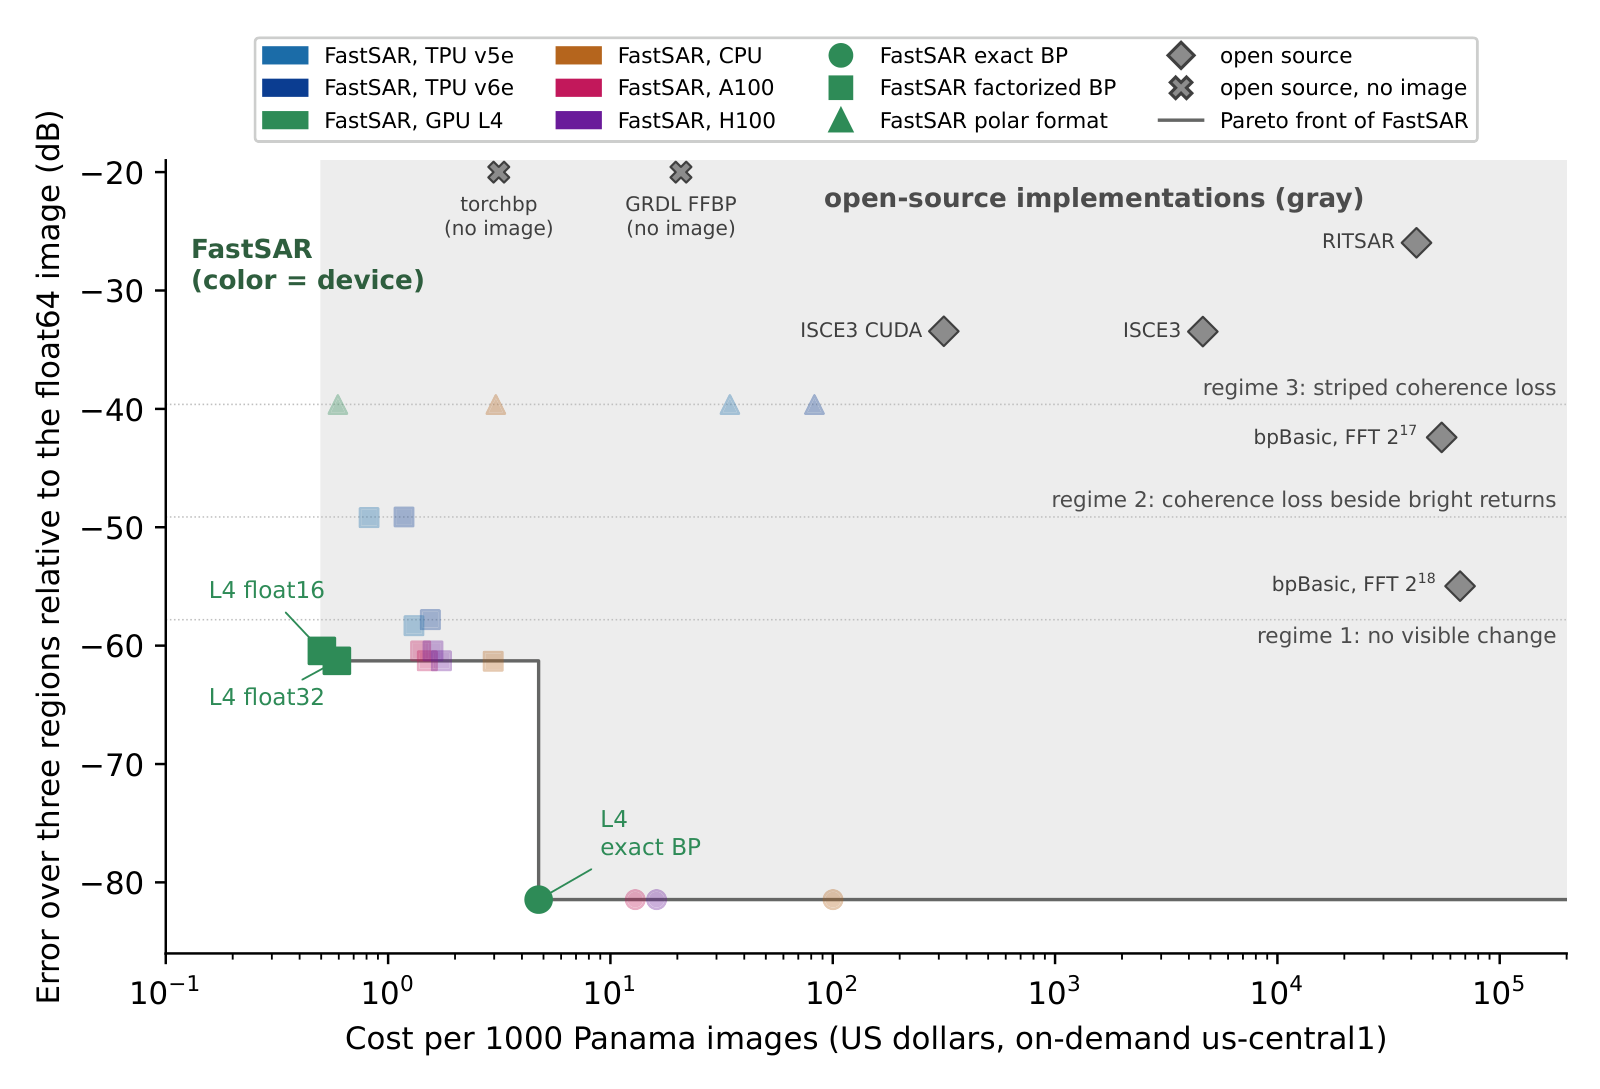
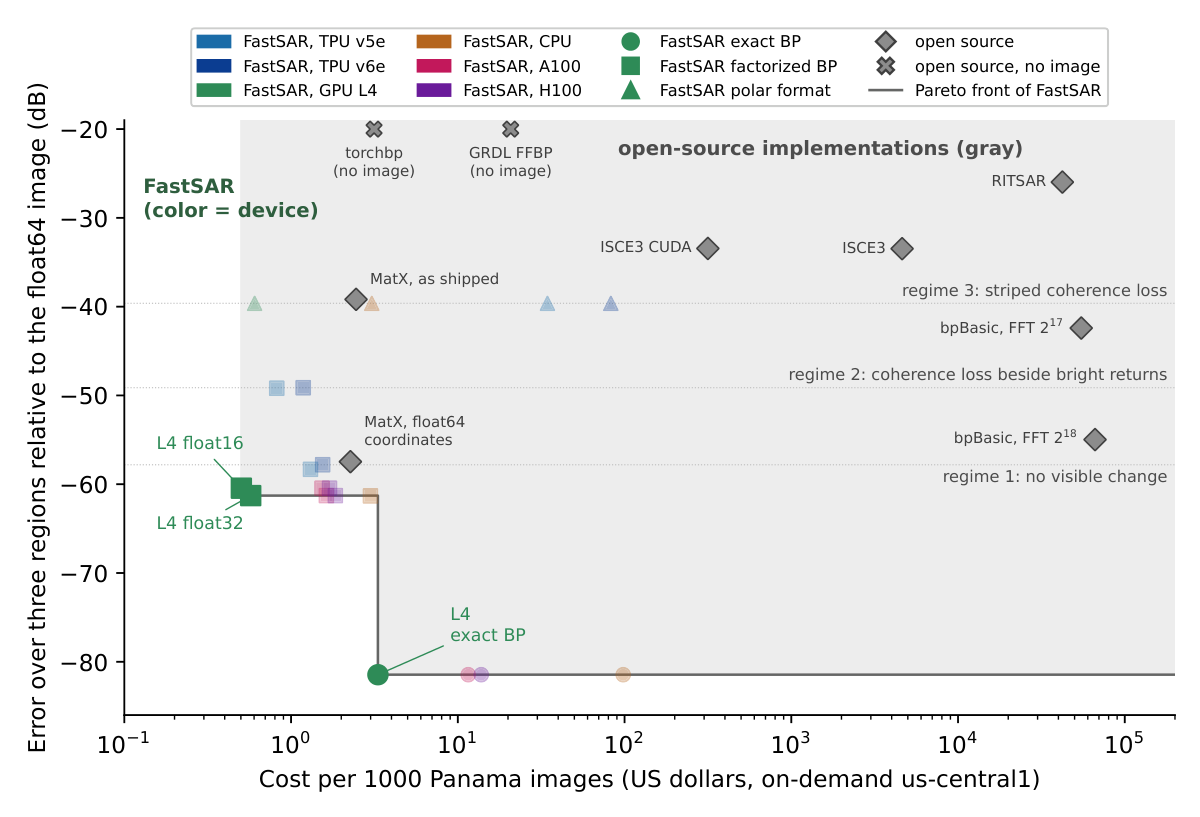
0.1.6.post1: README and docs on the 0.1.6 release records

diff --git a/fastsar/__init__.py b/fastsar/__init__.py
@@ -1,7 +1,7 @@
 """SAR image formation on x86 and ARM CPUs, Nvidia GPUs and Cloud TPUs: factorized backprojection with a kernel for each
 (C++/OpenMP, CUDA, Pallas) for spotlight, stripmap, sliding spotlight and burst collections, exact backprojection,
 polar format, and the chain from a CPHD file to geolocated products. Start with form_cphd or form_image."""
-__version__ = '0.1.6'
+__version__ = '0.1.6.post1'
 
 import os as _os
 

diff --git a/docs/performance.md b/docs/performance.md
@@ -17,11 +17,11 @@ The Umbra Panama image ([real-data.md](real-data.md#umbra-spotlight)) at float32
 |---|---|---|---|
 | TPU v6e (three-pass) | 2.70 | 2.9 | 1.55 |
 | TPU v5e (three-pass) | 1.20 | 5.0 | 1.31 |
-| L4 (float32) | 0.707 | 3.0 | 0.59 |
+| L4 (float32) | 0.707 | 2.8 | 0.57 |
 | L4 (float16 throughout, float32 accumulation) | 0.707 | 2.5 | 0.50 |
-| A100 (float32) | 5.02 | 1.1 | 1.50 |
-| H100 (float32) | 10.97 | 0.6 | 1.74 |
-| c4d-highmem-16 | 0.964 | 11.1 | 2.97 |
+| A100 (float32) | 5.02 | 1.2 | 1.63 |
+| H100 (float32) | 10.97 | 0.6 | 1.84 |
+| c4d-highmem-16 | 0.964 | 11.2 | 2.99 |
 
 Cost is the hourly price divided by the throughput of back-to-back images (on the TPUs the next history is staged
 while one forms). The H100 forms the image fastest; the L4, whose hourly price is about a quarter of the v6e's and
@@ -30,10 +30,12 @@ on the Melbourne and Iowa collections as well.
 
 ![Cost per 1000 Panama images against error for every FastSAR configuration and the open-source implementations](images/teaser.png)
 
-Single-pass on the TPUs takes 2.5 s (v6e) and 3.5 s (v5e) at -46.2 dB, $1.18 and $0.82 per 1000 images. Float16
-on the L4 and single-pass on the TPUs lower each device's cost by 14 to 37%. Polar format takes 3.0 s on the L4
-($0.59 per 1000) and 11.3 s on the c4d-highmem-16, at -32.1 dB. On the TPUs its resampling steps are gathers on the vector unit and take 103 s (v5e) and 110 s (v6e) per image. The L4 draws 0.06 kWh per 1000 float32 images (mean
-`nvidia-smi` power, host excluded). These are the release records of the study (FastSAR 0.1.4, public API only).
+Single-pass on the TPUs takes 2.5 s (v6e) and 3.6 s (v5e) at -46.2 dB, $1.18 and $0.82 per 1000 images. Float16
+on the L4 and single-pass on the TPUs lower each device's cost by 12 to 37%. Polar format takes 3.0 s on the L4
+($0.60 per 1000) and 11.2 s on the c4d-highmem-16, at -32.1 dB. On the TPUs its resampling steps are gathers on the vector unit and take 103 s (v5e) and 110 s (v6e) per image. The L4 draws 0.05 kWh per 1000 float32 images (mean
+`nvidia-smi` power, host excluded). These are the release records of the study (FastSAR 0.1.6, public API only;
+the L4 record is the second of two fresh instances, which agreed within 2% on every configuration but the Panama
+float32 single call, 3.06 against 2.85 s).
 
 ## Large collections
 
@@ -80,8 +82,8 @@ instances at 0.1.3 (single warm image, host memory to host memory):
 | H100 80GB | 0.575 s | 0.524 s | 1.04 s |
 | L4 | 2.94 s | 2.52 s | 3.8 s |
 
-Errors are unchanged (-59.9 and -58.9 dB). In the 0.1.4 release records the 84-patch 2021 Capella stripmap takes
-5.7 s on the H100 and 9.6 s on an L4 with a 32-vCPU host (g2-standard-32); with 4 vCPUs the mosaic is bound by the
+Errors are unchanged (-59.9 and -58.9 dB). In the 0.1.6 release records the 84-patch 2021 Capella stripmap takes
+5.5 s on the H100 and 9.8 s on an L4 with a 32-vCPU host (g2-standard-32); with 4 vCPUs the mosaic is bound by the
 host (22.2 s in development).
 
 ## Transfers on the cuda backend
@@ -107,7 +109,7 @@ At full speed the phase history stays on the device and the first level runs in 
 On a v6e, groups of 4 and 8 formed the 2025 Capella spotlight equally fast, and groups of 2 took 1% longer. On the
 L4 the same spotlight took 17.9 s in groups of 8 in development. It took 2% longer in groups of 4 and 44% longer
 with the history streamed from host memory. Full speed for it needs 25.4 GB, above the 22.9 GB free on the L4,
-so the release forms it in groups of 4 (15.9 s in the 0.1.4 records); the 74,203-pulse 2024 spotlight needs 35.8 GB
+so the release forms it in groups of 4 (16.5 s in the 0.1.6 records); the 74,203-pulse 2024 spotlight needs 35.8 GB
 and runs in groups of 2. The number of first-level children carried together through the later levels (up to half the free
 memory) does not affect speed. Batches of 1, 2 and 4 formed that spotlight within 1% of each other, and a smaller batch is not reported as a fallback.
 
@@ -156,7 +158,7 @@ tests only.
 
 ## Kernel times and stage profile
 
-On the c4d-highmem-16 the float32 Panama image takes 220 s as a single JAX program (`backend='jax'`) and 11.1 s
+On the c4d-highmem-16 the float32 Panama image takes 221 s as a single JAX program (`backend='jax'`) and 11.2 s
 with the C++ kernels. On the accelerators, in development and on the device, the JAX program took 4.6, 9.3 and
 13.7 s (v6e, v5e, L4) and the kernels 2.4, 4.6 and 3.5 s. In the profiled builds every kernel stage ran within 1.0
 to 2.5 times a lower bound set by its limiting hardware unit, measured by microbenchmarks on the same device.
@@ -186,31 +188,33 @@ The automatic tile choice takes 16 pixels on ARM. macOS builds the kernels with 
 
 On the Umbra Panama collection (15,186 pulses by 14,399 samples, 12,207 by 8,808 pixels) a c4a-highmem-16
 (Google Axion, Neoverse V2, 16 cores) forms the factorized float32 image in 20.3 s with these kernels, from 43.7 s
-with the 16-lane vectors of 0.1.1 (the c4d-highmem-16 of record: 11.1 s). Record: `results/fastsar/logs/arm2` in
+with the 16-lane vectors of 0.1.1 (the c4d-highmem-16 of record: 11.2 s). Record: `results/fastsar/logs/arm2` in
 sar-accel-study.
 
 ## Exact backprojection
 
 `ExactFormer` on the Umbra Panama collection (12,207 by 8,808 pixels, 15,186 pulses), host memory to host memory,
-warm former, against the float64 reference (the GPUs at 0.1.5, the CPU at 0.1.4; 0.1.4's GPU times in brackets):
+warm former, against the float64 reference (release 0.1.6 records; 0.1.4's GPU times in brackets):
 
 | Device | Cubic, `upsample=8` (default) | Linear, `upsample=8` |
 |---|---|---|
-| L4 (g2-standard-4) | 16.4 s (23.9 s), -67.4 dB | 11.4 s (19.4 s), -56.9 dB |
-| A100 80GB (a2-ultragpu-1g) | 8.28 s (9.3 s), -67.4 dB | 5.64 s (6.9 s), -56.9 dB |
-| H100 80GB (a3-highgpu-1g) | 4.53 s (5.3 s), -67.4 dB | 2.98 s (4.2 s), -56.9 dB |
-| c4d-highmem-16 | 374 s, -67.4 dB | 224 s, -56.9 dB |
+| L4 (g2-standard-4) | 16.8 s (23.9 s), -67.4 dB | 12.1 s (19.4 s), -56.9 dB |
+| A100 80GB (a2-ultragpu-1g) | 8.28 s (9.3 s), -67.4 dB | 5.71 s (6.9 s), -56.9 dB |
+| H100 80GB (a3-highgpu-1g) | 4.50 s (5.3 s), -67.4 dB | 3.05 s (4.2 s), -56.9 dB |
+| c4d-highmem-16 | 366 s, -67.4 dB | 225 s, -56.9 dB |
 
-The 0.1.5 images are bitwise those of 0.1.4 on all three GPUs and the three Umbra scenes. Two changes made the
+The exact kernels did not change between 0.1.5 and 0.1.6; the two L4 instances of the 0.1.6 records ran them 3 to
+6% slower than the 0.1.5 record instance (16.3 s cubic, 11.7 s linear). The 0.1.5 images are bitwise those of 0.1.4
+on all three GPUs and the three Umbra scenes. Two changes made the
 difference: the CUDA kernel's thread blocks take their tiles along the grid axis closer to constant range, so that
 the blocks resident together read the same range bins from the L2 cache instead of the image's whole range window,
 and the image comes back through pinned memory (0.25 s or more for the 860 MB image through pageable memory).
-Records: the bucket prefix `v7` of sar-accel-study (`cloud/r013/queue_exact_v015.sh`).
+Records: the bucket prefix `v9` of sar-accel-study (`cloud/r013/queue_gpu_v016_part.sh`).
 
 The cubic error is the reference's own: against a float64 backprojection oversampled 64 times, the reference is
 -67.3 to -68.8 dB on the lock, port and ship regions and the cubic image -77.5 to -81.7 dB (the float32 factorized
 images -57 to -63 dB). Cubic at 4 times, the default before 0.1.1, reaches -59.8 to -69.6 dB against that truth. The CUDA kernel runs at about 100
-billion pixel-pulse pairs per second on the L4 (cubic, 16.4 s); in development (0.1.1) it ran at 86% of the L1 cache's throughput for its
+billion pixel-pulse pairs per second on the L4 (cubic, 16.8 s); in development (0.1.1) it ran at 86% of the L1 cache's throughput for its
 data-dependent reads (Nsight Compute), and staging the profiles in shared memory or reading sample
 pairs as 16-byte words did not make it faster (the latter again in 0.1.5). The C++ kernel runs at about 4.4 billion per second on the
 c4d-highmem-16, limited by its vector gathers.
@@ -220,6 +224,6 @@ pulse count plus a fixed cost of reading the history. On square grids at the cen
 pulses, warm formers; measured with a release candidate of 0.1.1) on an L4 (g2-standard-4), exact backprojection with cubic interpolation at 8 times took 0.78, 1.29, 3.85
 and 14.9 s at 1024, 2048, 4096 and 8192 pixels on a side, against 1.00, 0.96, 1.42 and 2.63 s for `ImageFormer`:
 the two meet between 1024 and 2048 pixels on a side. On the c4d-highmem-16 factorized backprojection was faster at every size (7.5 against
-2.6 s at 1024 pixels, 269 against 7.2 s at 8192; the CPU's exact kernel has since become faster, 433 s to 374 s on
+2.6 s at 1024 pixels, 269 against 7.2 s at 8192; the CPU's exact kernel has since become faster, 433 s to 366 s on
 the full Panama image). On the three Panama regions exact backprojection is 19 to 21 dB more
 accurate against the 64 times truth. Records: `results/fastsar/crossover` in sar-accel-study.

diff --git a/docs/comparison.md b/docs/comparison.md
@@ -10,7 +10,7 @@ backprojection at 64 times, since the reference's own error, -67.3 to -68.8 dB, 
 backprojection; ISCE3 was scored on three 256 by 256 patches of its own grid after removal of a common linear phase
 ramp. Times are for the full image, host to host; FastSAR's factorized rows use a warm former. Estimates (est.) scale
 one region's time by the pixel count and, if the codes scale as FastSAR does, overstate the full-image time; applied to FastSAR's exact backprojection, the same estimate gives 27
-min against 374 s measured.
+min against 366 s measured.
 
 | CPU (c4d-highmem-16) | Error (dB) | Time |
 |---|---|---|
@@ -19,8 +19,8 @@ min against 374 s measured.
 | AFRL `bpBasic` (Octave), FFT length 2^18 | -52.9 to -55.4 | 69 h (est.) |
 | ISCE3 `backproject`, 16 threads | -31.5 to -54.9 | 4.8 h (est.) |
 | GRDL, factorized | no image | 77.5 s |
-| FastSAR, exact backprojection, cubic, 8x | -77.5 to -81.7 (truth) | 374 s |
-| FastSAR, factorized, float32 | -57.2 to -62.6 (truth) | 11.1 s |
+| FastSAR, exact backprojection, cubic, 8x | -77.5 to -81.7 (truth) | 366 s |
+| FastSAR, factorized, float32 | -57.2 to -62.6 (truth) | 11.2 s |
 
 | GPU (Nvidia L4) | Error (dB) | Time |
 |---|---|---|
@@ -29,9 +29,9 @@ min against 374 s measured.
 | torchbp, factorized | out of memory | |
 | MatX `sar_bp`, `taylor_fast`, as shipped, 8x | -37.7 to -43.2 | 12.5 s |
 | MatX `sar_bp`, `taylor_fast`, float64 pixel coordinates, 8x | -54.9 to -58.6 | 11.6 s |
-| FastSAR, exact backprojection, linear, 8x | -54.9 to -58.7 | 11.4 s |
-| FastSAR, exact backprojection, cubic, 8x | -77.5 to -81.7 (truth) | 16.4 s |
-| FastSAR, factorized, float32 | -57.1 to -62.6 (truth) | 3.0 s |
+| FastSAR, exact backprojection, linear, 8x | -54.9 to -58.7 | 12.1 s |
+| FastSAR, exact backprojection, cubic, 8x | -77.5 to -81.7 (truth) | 16.8 s |
+| FastSAR, factorized, float32 | -57.1 to -62.6 (truth) | 2.8 s |
 | FastSAR, factorized, float16 throughout | -55.6 to -61.6 (truth) | 2.5 s |
 
 - RITSAR: a `linspace` range axis too coarse by one part in N_fft - 1, and a frequency axis that assumes an even
@@ -51,14 +51,14 @@ min against 374 s measured.
   With a float64 `linspace` (one line, `cloud/matx/dvox.patch` in the study repository) the errors are those of
   linear interpolation at 8 times, within 0.1 dB of FastSAR's linear row, which uses the same scheme.
 
-With the algorithm held fixed, FastSAR's exact backprojection (cubic) is 46 times faster than ISCE3's estimated time
-on the CPU and 98 times on the L4, with lower errors in every region; with linear interpolation it is level with
-MatX's corrected form at matched accuracy (11.4 against 11.6 s). The factorized algorithm cuts the time by a further
-factor of 5.5 on the L4 and 34 on the CPU.
+With the algorithm held fixed, FastSAR's exact backprojection (cubic) is 47 times faster than ISCE3's estimated time
+on the CPU and 96 times on the L4, with lower errors in every region; with linear interpolation it takes 5% longer
+than MatX's corrected form at matched accuracy (12.1 against 11.6 s), about the day-to-day difference between L4
+instances. The factorized algorithm cuts the time by a further factor of 5.9 on the L4 and 33 on the CPU.
 
 On the same CPU, the AFRL toolbox's `pfa_mem` (Octave) forms a polar-format image in 44.5 s and GRDL's polar format in 24.5 s.
 Neither corrects the planar-wavefront displacement. Their log-amplitude correlations with the reference are 0.80 to
-0.89 and 0.78 to 0.93, against 0.996 to 0.999 for FastSAR's corrected polar format (11.3 s).
+0.89 and 0.78 to 0.93, against 0.996 to 0.999 for FastSAR's corrected polar format (11.2 s).
 
 Scripts and records: [sar-accel-study](https://github.com/saulpingerman/sar-accel-study), directories `oss` and
 `results/comparison`.

diff --git a/README.md b/README.md
@@ -10,12 +10,12 @@ geolocation, map GeoTIFFs and SICD output.
 
 ![FastSAR image of the Panama Canal's Pacific entrance from an Umbra spotlight collection](https://raw.githubusercontent.com/saulpingerman/FastSAR/main/docs/images/hero_panama.jpg)
 
-*Panama Canal, Pacific entrance (Umbra open data, 2023-07-18): 12,207 by 8,808 pixels in 3.0 s on an Nvidia L4
+*Panama Canal, Pacific entrance (Umbra open data, 2023-07-18): 12,207 by 8,808 pixels in 2.8 s on an Nvidia L4
 (warm former, transfers included; float32, -59.9 dB against the float64 reference of
 [precision.md](https://github.com/saulpingerman/FastSAR/blob/main/docs/precision.md)), downsampled. A
-c4d-highmem-16 CPU instance (16 vCPUs, 8 cores) takes 11.1 s. The fastest open-source exact backprojection that forms this
+c4d-highmem-16 CPU instance (16 vCPUs, 8 cores) takes 11.2 s. The fastest open-source exact backprojection that forms this
 collection, the `sar_bp` example of NVIDIA's MatX, takes 12.5 s on the L4 as shipped and 11.6 s with float64 pixel
-coordinates, against 11.4 s for FastSAR's exact backprojection at the same accuracy; on the CPU, ISCE3 would take an
+coordinates, against 12.1 s for FastSAR's exact backprojection at the same accuracy; on the CPU, ISCE3 would take an
 estimated 4.8 h.*
 
 ![Cost per 1000 images against error for FastSAR and six open-source implementations](https://raw.githubusercontent.com/saulpingerman/FastSAR/main/docs/images/teaser.png)

diff --git a/CHANGELOG.md b/CHANGELOG.md
@@ -3,6 +3,13 @@
 The format follows [Keep a Changelog](https://keepachangelog.com/en/1.1.0/). The date of a version is the day it
 was published on PyPI.
 
+## [0.1.6.post1] - 2026-10-18
+
+### Changed
+
+- README, `docs/performance.md` and `docs/comparison.md` carry the 0.1.6 release records (the PyPI page shows the
+  README of the upload, so the text is republished); no code change.
+
 ## [0.1.6] - 2026-10-18
 
 ### Changed
